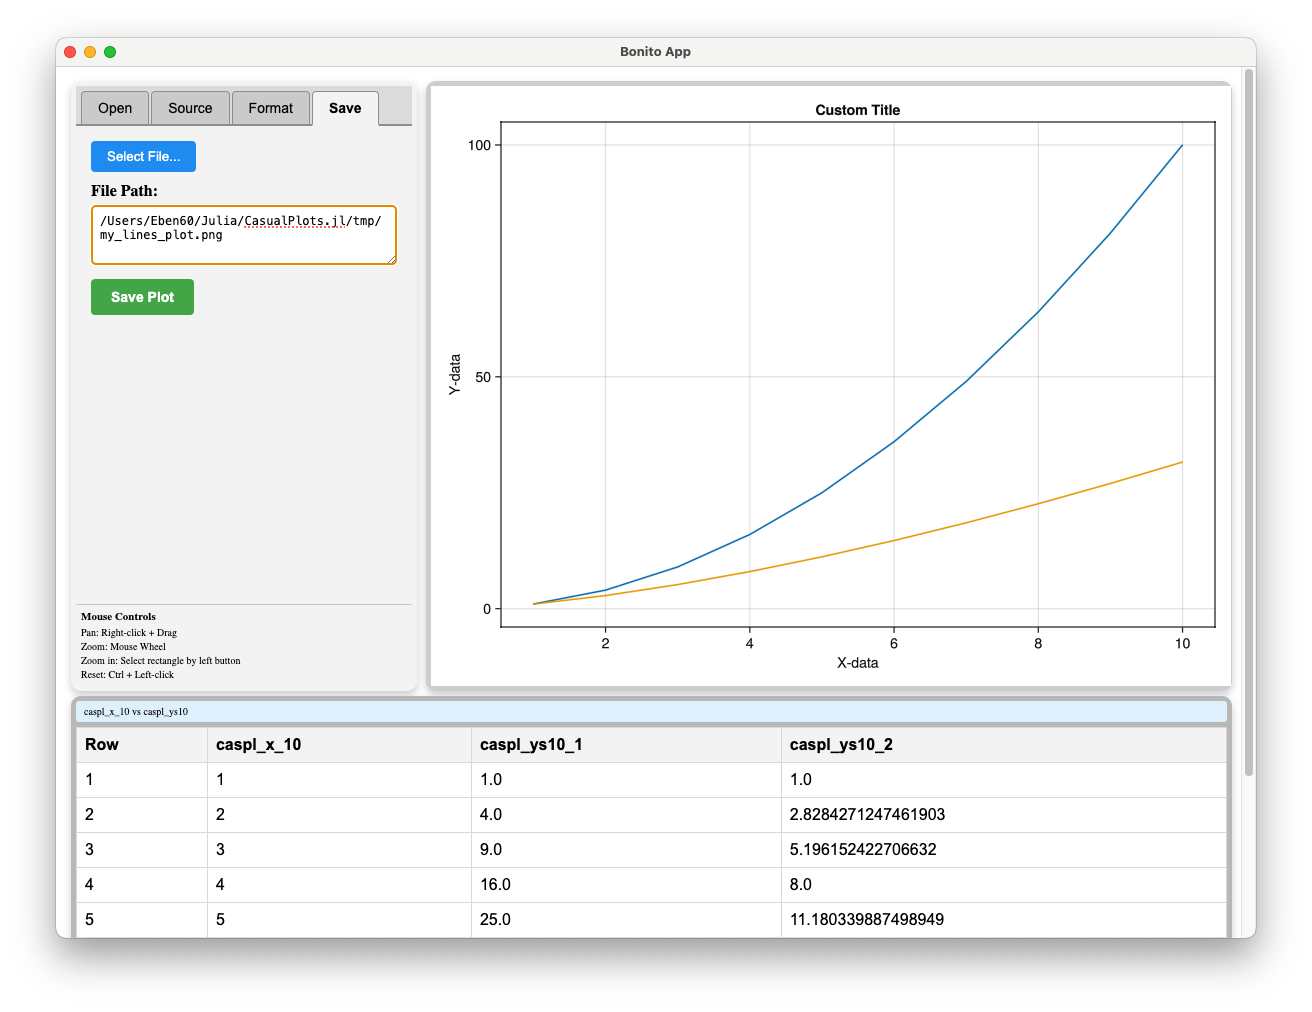
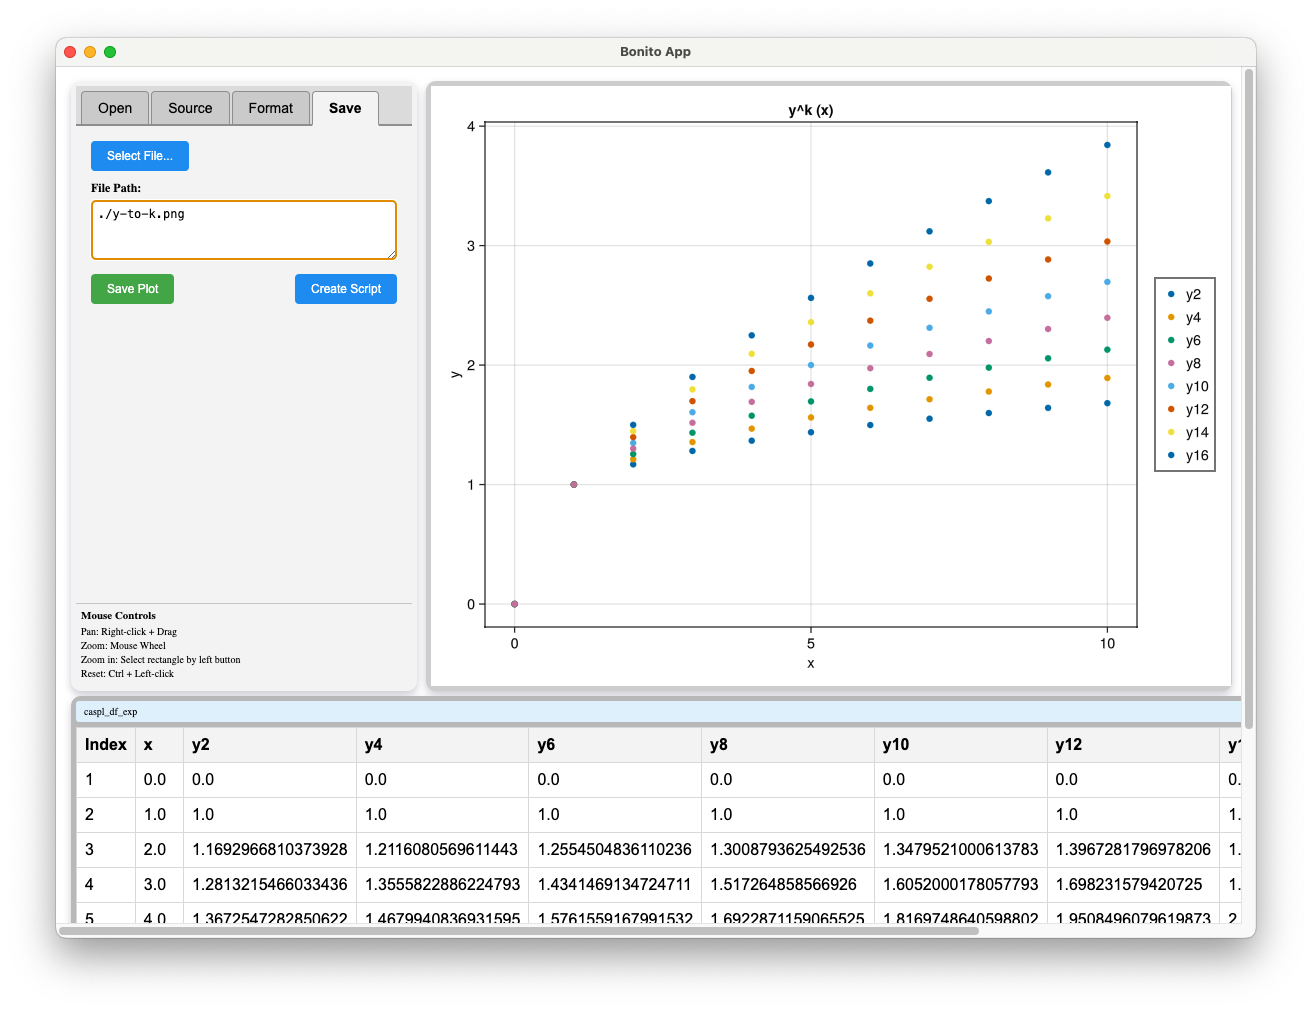
update save tab screenshot

diff --git a/README.md b/README.md
@@ -171,4 +171,4 @@ In short, it is WIP, however, the main goals are already implemented and the pac
 - [X, Y Source Selection, Scatter Plot](AGENTS_more_info/ScreenShots/xy_source_selection.png)
 - [DataFrame Source Selection](AGENTS_more_info/ScreenShots/dataframe_source_selection.png)
 - [Format Tab, Lines Plot](AGENTS_more_info/ScreenShots/format_tab.png)
-- [Save Tab](AGENTS_more_info/ScreenShots/save_tab.png) # TODO!
+- [Save Tab](AGENTS_more_info/ScreenShots/save_tab.png)